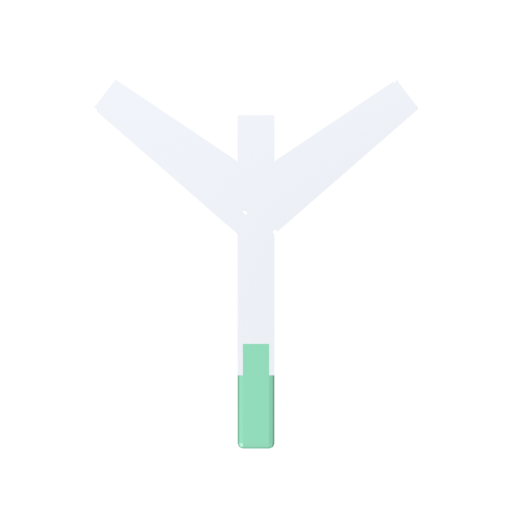
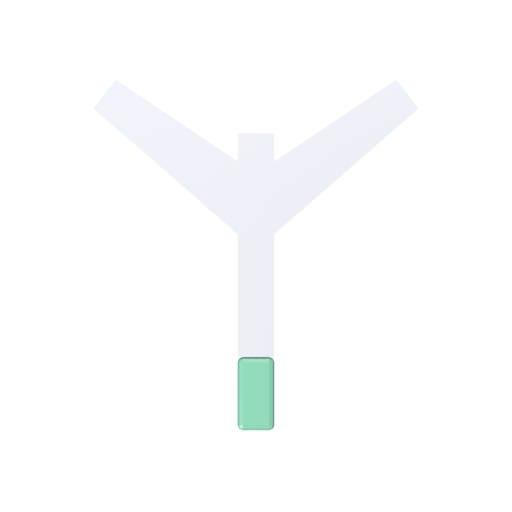
T40: stroke each part as the closed polygon psi.svg draws (#57)
build_mark.py stroked each imported centre line with a square cap at both of
its ends, but every subpath in psi.svg is closed with `Z`, and a closed
subpath joins at its ends instead of capping them. The mesh was therefore
3.57 viewBox units longer at each end than the mark the sites inline, and the
ink and accent prisms met over a 7.14-unit footprint where the SVG has one
clean boundary.

stroke_pieces now walks the closed polygon: the closing segment is a band
like the rest and the start and end vertices join like the interior ones,
under the same mitre limit.

Closing the outline exposed an element-order sensitivity in the pipeline.
Blender's exact boolean emits the same solid in a run-dependent element
order, and bevel_edges clamps overlapping offsets in the order it meets
them, so the re-stroked GLB was not byte-identical between runs — the same
vertices and faces, differently ordered. canonical_elements()/
canonicalise() normalise the union before the bevel and reuse the same
order for the export, which restores the two-run identity the ticket asks
for.

All six artefacts regenerated with the script itself.

Changed region(s): [[0.4375, 0.8125, 0.5625, 0.875], [0.4688, 0.6562, 0.5312, 0.7188]]

diff --git a/assets/mark/build_mark.py b/assets/mark/build_mark.py
@@ -9,12 +9,13 @@ sites inline (D-007) — imported with Blender's built-in SVG importer; `psi.jso
 supplies the stroke width, the palette and the part names, and the imported
 centre lines are checked against it so the flat mark and the mesh cannot drift.
 
-Blender's SVG importer reads fills and ignores `stroke`, and `psi.svg` draws the
-mark with square-capped, mitre-joined strokes, so what the importer produces is a
+Blender's SVG importer reads fills and ignores `stroke`, and `psi.svg` draws each
+part as a closed, mitre-joined stroke, so what the importer produces is a
 zero-width centre line: converting it straight to mesh and extruding would give
-nothing to render. The imported centre lines are therefore stroked here under the
-same cap, join and mitre-limit rules the SVG asks for, and that outline is what is
-extruded along `+Z` by 0.12 and bevelled by 0.01 in two segments.
+nothing to render. The imported centre lines are therefore stroked here as the
+closed polygons the SVG draws — join and mitre-limit rules, no caps — and that
+outline is what is extruded along `+Z` by 0.12 and bevelled by 0.01 in two
+segments.
 
 Outputs, written in this order:
 
@@ -62,11 +63,11 @@ ICON_PATHS = (
 
 SCHEMA = "qualia.psi-mark.v1"
 
-# psi.json's geometry is stroked, and psi.svg carries the stroke as a `stroke`
-# attribute with `stroke-linecap="square"`, `stroke-linejoin="miter"` and
-# `stroke-miterlimit="4"`. Blender's SVG importer only reads fills, so the
-# strokes are expanded here with the same cap, join and miter-limit rules and
-# the result is what gets extruded.
+# psi.json's geometry is stroked, and psi.svg carries each part as a closed
+# subpath (`Z`) with `stroke-linejoin="miter"` and `stroke-miterlimit="4"`; a
+# closed subpath joins at its ends rather than capping them. Blender's SVG
+# importer only reads fills, so the strokes are expanded here as closed polygons
+# with the same join and miter-limit rules and the result is what gets extruded.
 MITER_LIMIT = 4.0
 
 # One viewBox unit. The viewBox is 100 units across, so 100 units == one Blender
@@ -281,19 +282,18 @@ def _wound(polygon: list[tuple[float, float]]) -> list[tuple[float, float]]:
 def stroke_pieces(points: list[tuple[float, float]], half: float) -> list[list[tuple[float, float]]]:
     """Simple convex pieces whose union is the stroked centre line.
 
-    Every piece is convex, so the union Blender's exact boolean builds stays
-    clean even where the mark's arms turn more sharply than the stroke is wide.
+    The centre line is the closed polygon `psi.svg` draws, so the closing segment
+    is a band like the rest and the start and end vertices join like the interior
+    ones: a closed subpath has joins at its ends, not caps. Every piece is convex,
+    so the union Blender's exact boolean builds stays clean even where the mark's
+    arms turn more sharply than the stroke is wide.
     """
     pieces = []
     count = len(points)
-    for index in range(count - 1):
-        start, end = points[index], points[index + 1]
+    for index in range(count):
+        start, end = points[index], points[(index + 1) % count]
         tangent = unit((end[0] - start[0], end[1] - start[1]))
         normal = (-tangent[1], tangent[0])
-        if index == 0:  # square cap
-            start = (start[0] - tangent[0] * half, start[1] - tangent[1] * half)
-        if index == count - 2:  # square cap
-            end = (end[0] + tangent[0] * half, end[1] + tangent[1] * half)
         pieces.append(
             [
                 (start[0] + normal[0] * half, start[1] + normal[1] * half),
@@ -302,8 +302,8 @@ def stroke_pieces(points: list[tuple[float, float]], half: float) -> list[list[t
                 (start[0] - normal[0] * half, start[1] - normal[1] * half),
             ]
         )
-    for index in range(1, count - 1):
-        piece = _join_piece(points[index - 1], points[index], points[index + 1], half)
+    for index in range(count):
+        piece = _join_piece(points[index - 1], points[index], points[(index + 1) % count], half)
         if piece is not None:
             pieces.append(piece)
     return [_wound(piece) for piece in pieces]
@@ -383,6 +383,53 @@ def union_pieces(name: str, pieces: list[list[tuple[float, float]]], depth: floa
     return target
 
 
+def canonical_elements(obj) -> tuple[list[tuple[float, float, float]], list[tuple[int, ...]]]:
+    """The object's mesh as (vertices, faces) in a canonical order.
+
+    Blender's exact boolean is threaded, so it emits the same solid with a
+    different element order between runs. Sorting the faces by their own
+    coordinates — each loop turned to start at the smallest of its rotations,
+    which keeps the winding and so the shading — makes everything read out of the
+    mesh reproducible: the bevel's clamping decisions and the exported GLB.
+    """
+    coordinates = [tuple(vertex.co) for vertex in obj.data.vertices]
+    loops = []
+    for polygon in obj.data.polygons:
+        loop = tuple(polygon.vertices)
+        sequence = [coordinates[corner] for corner in loop]
+        start = min(range(len(loop)), key=lambda turn: sequence[turn:] + sequence[:turn])
+        loops.append(loop[start:] + loop[:start])
+    loops.sort(key=lambda loop: tuple(coordinates[i] for i in loop))
+
+    vertices: list[tuple[float, float, float]] = []
+    faces: list[tuple[int, ...]] = []
+    remap: dict[int, int] = {}
+    for loop in loops:
+        for corner in loop:
+            if corner not in remap:
+                remap[corner] = len(remap)
+                vertices.append(coordinates[corner])
+        faces.append(tuple(remap[corner] for corner in loop))
+    return vertices, faces
+
+
+def canonicalise(obj) -> None:
+    """Rebuild the mesh's elements in canonical order before anything walks them.
+
+    `bevel_edges` clamps overlapping offsets in the order it meets them, so its
+    result is only reproducible if the mesh it is handed is.
+    """
+    vertices, faces = canonical_elements(obj)
+    old = obj.data
+    name = old.name
+    mesh = bpy.data.meshes.new(name)
+    mesh.from_pydata(vertices, [], faces)
+    mesh.update()
+    obj.data = mesh
+    bpy.data.meshes.remove(old)
+    mesh.name = name
+
+
 def bevel_edges(obj, offset: float, segments: int) -> None:
     builder = bmesh.new()
     try:
@@ -415,34 +462,16 @@ def principled(name: str, colour: str, roughness: float, metallic: float):
 
 
 def combine(name: str, groups: list[tuple[object, int]], materials: list[object]):
-    """One mesh object carrying both materials, in a canonical element order.
-
-    Blender's exact boolean is threaded, so the order in which it emits faces
-    changes between runs even though the geometry does not. Sorting the faces by
-    their own coordinates — each loop turned to start at its lowest vertex, which
-    keeps the winding and so the shading — makes the exported mesh, and therefore
-    the GLB, byte-identical between runs.
-    """
+    """One mesh object carrying both materials, in a canonical element order."""
     vertices: list[tuple[float, float, float]] = []
     faces: list[tuple[int, ...]] = []
     materials_per_face: list[int] = []
     for obj, index in groups:
-        coordinates = [tuple(vertex.co) for vertex in obj.data.vertices]
-        loops = []
-        for polygon in obj.data.polygons:
-            loop = tuple(polygon.vertices)
-            start = min(range(len(loop)), key=lambda corner: coordinates[loop[corner]])
-            loops.append(loop[start:] + loop[:start])
-        loops.sort(key=lambda loop: tuple(coordinates[i] for i in loop))
-
+        group_vertices, group_faces = canonical_elements(obj)
         base = len(vertices)
-        remap: dict[int, int] = {}
-        for loop in loops:
-            for corner in loop:
-                if corner not in remap:
-                    remap[corner] = base + len(remap)
-                    vertices.append(coordinates[corner])
-            faces.append(tuple(remap[corner] for corner in loop))
+        vertices.extend(group_vertices)
+        for loop in group_faces:
+            faces.append(tuple(base + corner for corner in loop))
             materials_per_face.append(index)
 
     mesh = bpy.data.meshes.new(name)
@@ -629,6 +658,7 @@ def build() -> None:
         parts = [to_blender(points, origin) for points, part_colour in lines if part_colour == colour]
         pieces = [piece for points in parts for piece in stroke_pieces(points, half)]
         solid = union_pieces(f"mark-{colour}", pieces, DEPTH)
+        canonicalise(solid)
         bevel_edges(solid, BEVEL, BEVEL_SEGMENTS)
         solids.append(solid)
 
